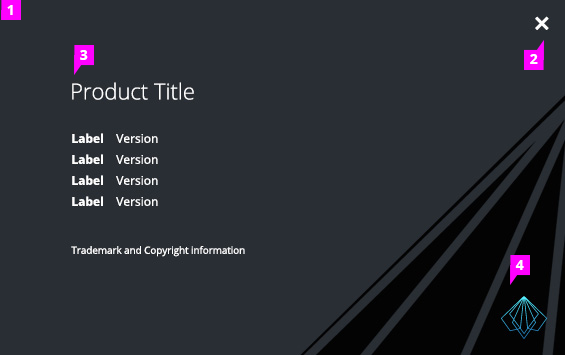
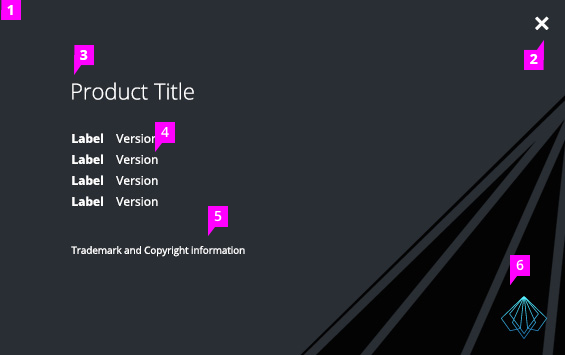
About Modal should provide guidance on build information
Updated the call out image from 3 callouts to 6 callouts：

    1.Modal
    2.Close Button
    3.Title ** new
    4.Content ** new
    5.Trademark & Copyright info ** new
    6.Corner Graphic

Changed region(s): [[0.3611, 0.5577, 0.4212, 0.6507], [0.2708, 0.3408, 0.331, 0.4338], [0.9027, 0.7127, 0.9327, 0.8056]]

diff --git a/pattern-library/communication/about-modal/design/design.md b/pattern-library/communication/about-modal/design/design.md
@@ -4,7 +4,16 @@
 
 1. **Modal:** The About Modal leverages the existing [modal](http://www.patternfly.org/pattern-library/widgets/#modal) in PatternFly. Upon opening the modal, the background behind it should “dim” in order to provide a focused view, reducing confusion. The modal should use the default position; top and centered on the screen.
 1. **Close Button:** Clicking the close button (pficon-close) will dismiss the modal and return the background to it’s original state.
-1. **Content:** Title of product, label and version, and legal text are present. Adequate spacing and font weight consideration should be provided for legibility. Two columns are available for versions that contain both a release name and version number or in the event more space is needed.
+1. **Title:** Title of product.
+1. **Content:** Label and version. Adequate spacing and font weight consideration should be provided for legibility. Two columns are available for versions that contain both a release name and version number or in the event more space is needed.<br>
+As an interim design, we are utilizing the following:<br>
+When version and build information are both shown:
+Version 6.3 (Build 5)<br>
+When version only:
+Version 6.3<br>
+When build only:
+Build 5
+1. **Trademark & Copyright info:** Legal text are present.
 1. **Corner Graphic:** Corner graphic allows the opportunity for branding.
 
 ## What's not covered in the current design:
